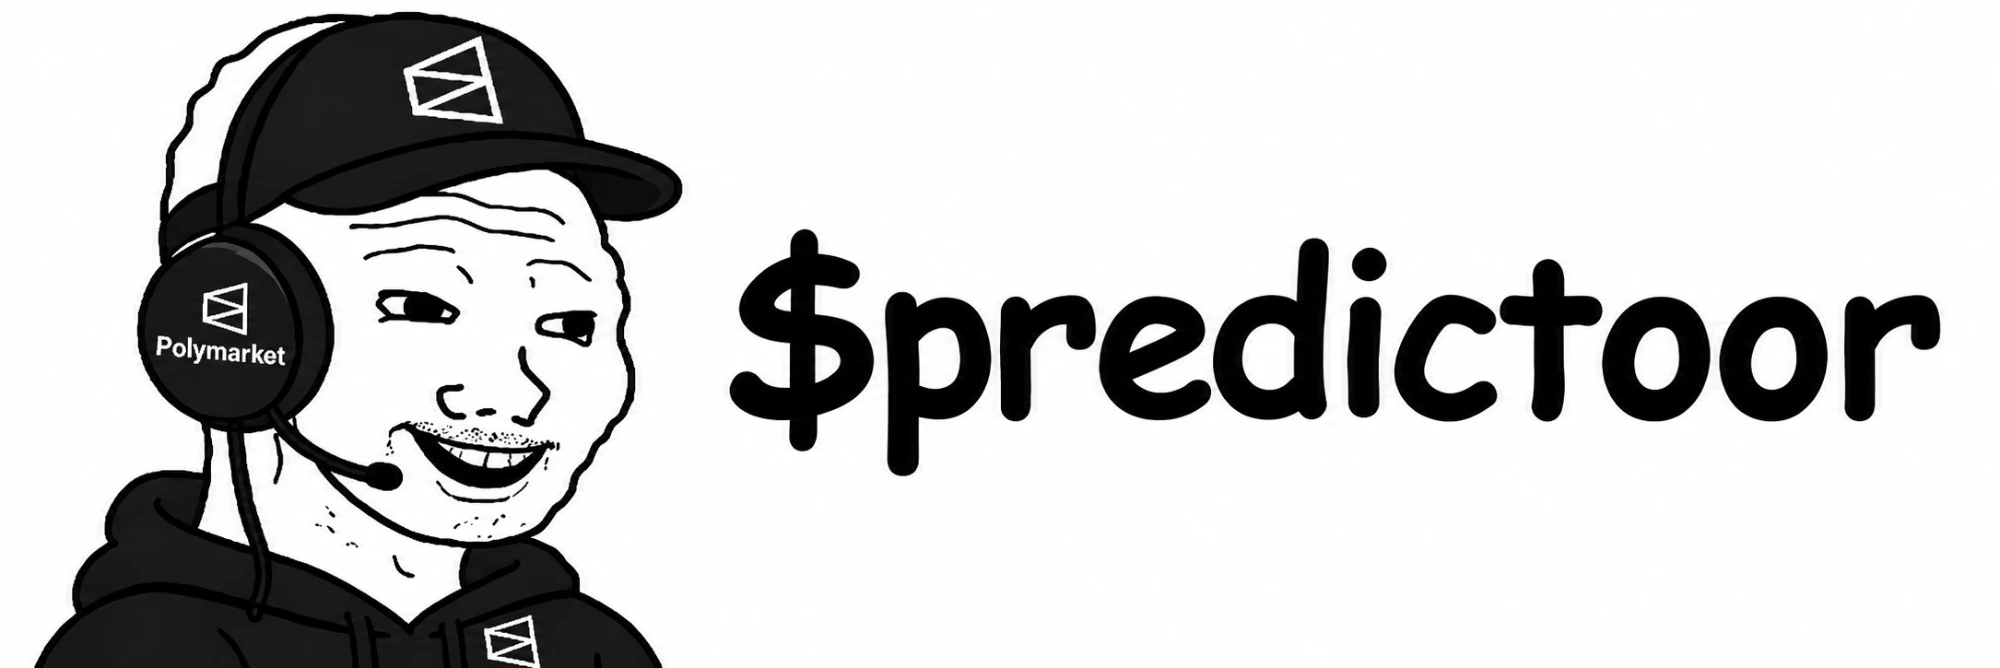
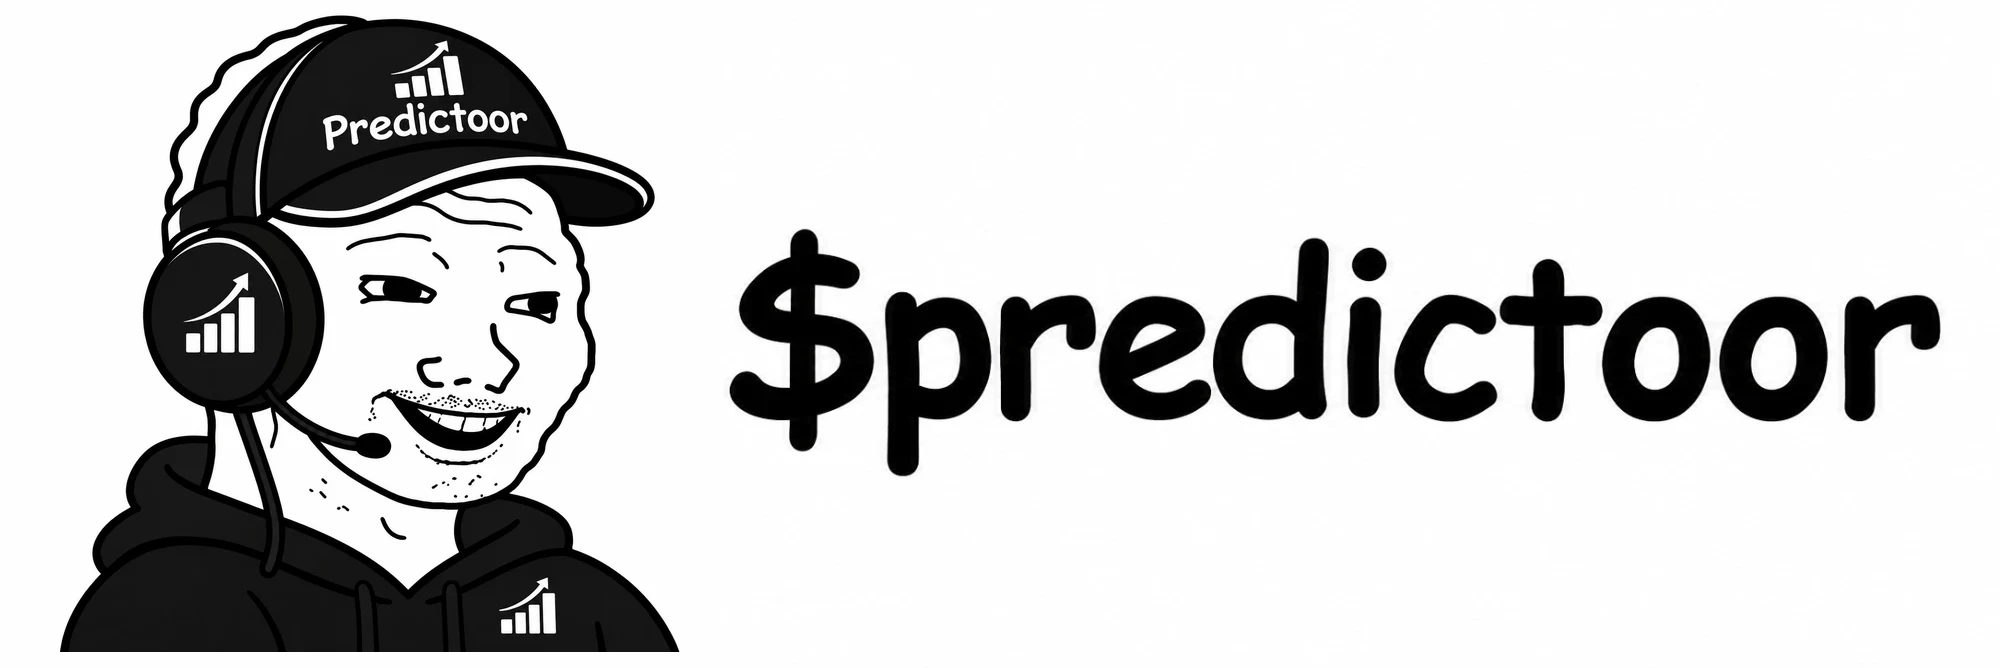
Update site

Changed region(s): [[0.0, 0.0, 0.341, 1.0], [0.031, 0.7485, 0.062, 0.7784]]

diff --git a/index.html b/index.html
@@ -8,22 +8,22 @@
   <link rel="preconnect" href="https://fonts.googleapis.com">
   <link rel="preconnect" href="https://fonts.gstatic.com" crossorigin>
   <link href="https://fonts.googleapis.com/css2?family=Comic+Neue:wght@300;400;700&display=swap" rel="stylesheet">
-  <link rel="stylesheet" href="style.css?v=20261125">
-  <link rel="icon" type="image/webp" href="img/logo.webp">
-  <link rel="apple-touch-icon" href="img/logo.webp">
+  <link rel="stylesheet" href="style.css?v=20261125b">
+  <link rel="icon" type="image/webp" href="img/logo.webp?v=2">
+  <link rel="apple-touch-icon" href="img/logo.webp?v=2">
   <meta property="og:title" content="Predictoor: the coin that bets on itself">
   <meta property="og:description" content="Creator fees claimed daily and backed on the single most confident sports pick.">
   <meta property="og:type" content="website">
   <meta property="og:url" content="https://predictoor.fun/">
-  <meta property="og:image" content="https://predictoor.fun/img/banner-share.webp">
+  <meta property="og:image" content="https://predictoor.fun/img/banner-share.webp?v=2">
   <meta name="twitter:card" content="summary_large_image">
-  <meta name="twitter:image" content="https://predictoor.fun/img/banner-share.webp">
+  <meta name="twitter:image" content="https://predictoor.fun/img/banner-share.webp?v=2">
   <script src="config.js?v=20261124"></script>
 </head>
 <body>
   <header class="nav">
     <div class="wrap nav-inner">
-      <a class="brand" href="#"><img class="brand-mark" src="img/logo.webp" alt="" width="32" height="32"><span data-coin="ticker-dollar">$PREDICTOOR</span></a>
+      <a class="brand" href="#"><img class="brand-mark" src="img/logo.webp?v=2" alt="" width="32" height="32"><span data-coin="ticker-dollar">$PREDICTOOR</span></a>
       <nav class="nav-links">
         <a href="#games">Live games</a>
         <a href="#how">How it works</a>
@@ -132,7 +132,7 @@
 
   <footer class="footer">
     <div class="wrap footer-inner">
-      <a class="brand" href="#"><img class="brand-mark" src="img/logo.webp" alt="" width="32" height="32"><span data-coin="ticker-dollar">$PREDICTOOR</span></a>
+      <a class="brand" href="#"><img class="brand-mark" src="img/logo.webp?v=2" alt="" width="32" height="32"><span data-coin="ticker-dollar">$PREDICTOOR</span></a>
       <p>Picks are probabilities, not promises. Favourites lose all the time. Nothing here is financial advice,
         memecoins can go to zero, and sports betting may be restricted where you live.</p>
       <p class="muted small">Games &amp; scores: ESPN · Fees: pump.fun via PumpPortal · Bets: <a href="https://predict.fun" target="_blank" rel="noopener">predict.fun</a><br>Not affiliated with or endorsed by ESPN.</p>

diff --git a/style.css b/style.css
@@ -51,7 +51,7 @@ img { display: block; }
   -webkit-mask-image: linear-gradient(to bottom, #000 62%, transparent 98%);
           mask-image: linear-gradient(to bottom, #000 62%, transparent 98%);
   position: absolute; inset: 0; pointer-events: none;
-  background: var(--bg) url("img/banner.webp") no-repeat;
+  background: var(--bg) url("img/banner.webp?v=2") no-repeat;
   background-size: auto 100%;
   background-position: max(-40px, calc(50vw - 720px)) bottom;
   background-blend-mode: multiply;   /* the art's white turns into the page colour */
